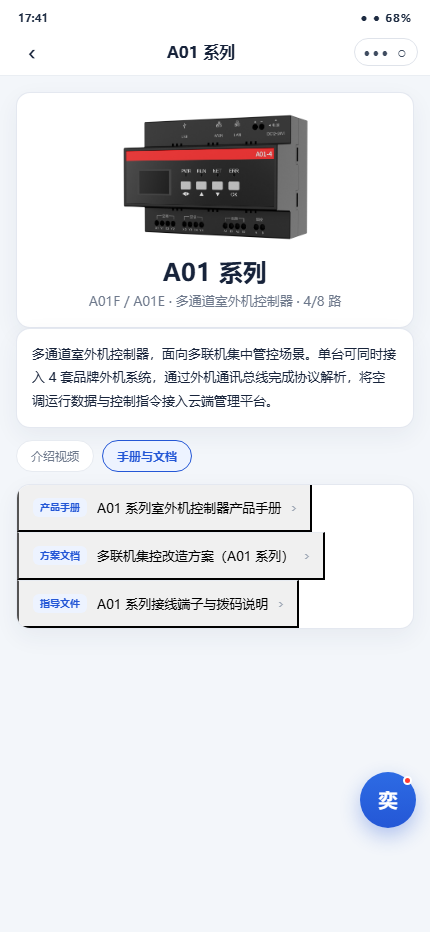
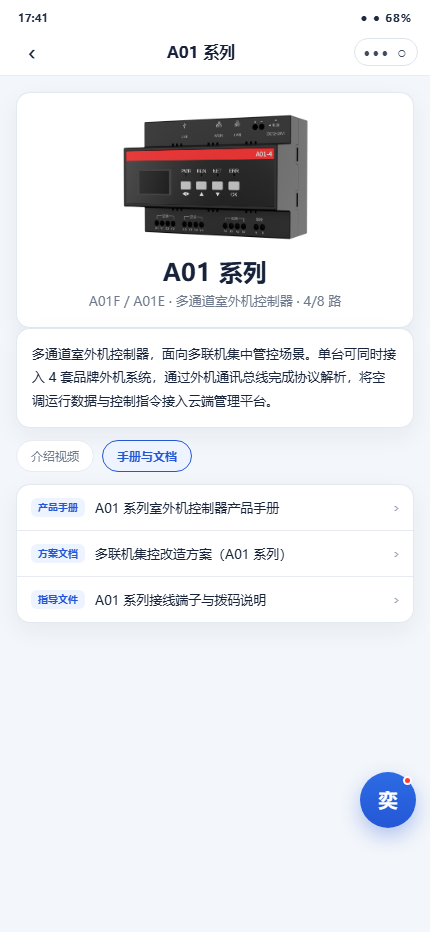
产品手册与文档改为页面化展示：新增manual-data.js（8系列×产品手册/方案文档/指导文件，每篇精简章节内容+参数表）；新增product-manual.html阅读页（类型徽章+章节目录锚点+正文/参数表渲染）；product-intro文档行由toast改跳阅读页；说明书6.2节同步

diff --git a/assets/app/manual-data.js b/assets/app/manual-data.js
@@ -1,0 +1,176 @@
+(function (root, factory) {
+  var data = factory();
+  if (typeof module === 'object' && module.exports) module.exports = data;
+  root.GWDBG_MANUALS = data;
+})(typeof window !== 'undefined' ? window : globalThis, function () {
+  return {
+    a01: [
+      [
+        { title: '产品简介', text: 'A01 系列是面向多联机（氟机）集控改造的多通道室外机控制器，通过 RS485 总线接入空调室外机，A01F 支持 4 路通道、A01E 支持 8 路通道，每通道可接多台内机，实现统一监控与批量控制。' },
+        { title: '技术参数', rows: [['产品型号', 'A01F / A01E'], ['通道数量', '4 路 / 8 路'], ['通讯接口', 'RS485（每通道独立）'], ['供电规格', 'DC 12V'], ['工作温度', '-20℃ ~ 70℃'], ['安装方式', '35mm 标准导轨']] },
+        { title: '接线说明', text: '每通道 A/B 端子按极性接入空调通讯总线，建议使用屏蔽双绞线并远离强电敷设；室外机侧端子位置因品牌而异，接线前务必断电操作。' },
+        { title: '指示灯说明', text: 'POWER 常亮表示供电正常；RUN 闪烁表示运行正常；通道灯常亮表示该通道通讯正常，熄灭请检查接线与品牌配置。' },
+        { title: '配置流程', text: '上电 → 小程序蓝牙连接设备 → 空调搜索识别内机 → 按通道批量配置空调品牌 → 服务器配置并检测通讯 → 平台建项绑定上线。' },
+        { title: '注意事项', text: '同一通道内空调品牌必须一致；修改品牌配置后需重新搜索内机；通讯总线施工请避开雷雨天气。' }
+      ],
+      [
+        { title: '适用场景', text: '适用于商场、办公楼、学校等多联机集中管控项目，单台 A01 可覆盖 4-8 套多联机系统，多台级联可管理大型园区。' },
+        { title: '系统架构', text: '空调室外机 → RS485 总线 → A01 控制器 → 局域网/4G 路由 → 集控计费平台 → 小程序/网页端。' },
+        { title: '实施步骤', text: '现场勘查（品牌、数量、总线位置）→ 控制柜安装与接线 → 通道品牌配置 → 平台建项绑定 → 可视化布局与节能策略下发。' },
+        { title: '验收要点', text: '内机识别率 100%；批量控制响应不超过 3 秒；断电重启后设备自动恢复上线。' }
+      ],
+      [
+        { title: '端子定义', rows: [['VCC / GND', '供电输入 DC 12V'], ['A1/B1 ~ A8/B8', '通道 1-8 通讯端子'], ['PE', '屏蔽层接地端子']] },
+        { title: '拨码开关说明', text: 'SW1 第 5 位 ON 为终端电阻投入（仅总线末端设备使用）；第 8 位 ON 上电保持 5 秒恢复出厂设置；其余位预留。' },
+        { title: '常见接线错误', text: 'A/B 极性接反：通道灯不亮，对调即可；通讯线与强电同管敷设：干扰导致内机频繁掉线；屏蔽层未单端接地：通讯距离明显缩短。' }
+      ]
+    ],
+    a02: [
+      [
+        { title: '产品简介', text: 'A02 系列是第二代室外机控制器，在 A01 基础上升级分通道品牌配置与设备诊断能力，A02FG 支持 4 路、A02EG 支持 8 路，适合多品牌混装的大体量项目。' },
+        { title: '技术参数', rows: [['产品型号', 'A02FG / A02EG'], ['通道数量', '4 路 / 8 路'], ['通讯接口', 'RS485（每通道独立）'], ['供电规格', 'DC 12V'], ['工作温度', '-20℃ ~ 70℃'], ['安装方式', '35mm 标准导轨']] },
+        { title: '接线说明', text: '与 A01 系列一致，每通道独立 A/B 端子接入对应空调总线；多品牌混装项目请按品牌划分通道，避免同通道混接。' },
+        { title: '指示灯说明', text: 'POWER 常亮供电正常；RUN 闪烁运行正常；通道灯常亮通讯正常，慢闪表示该通道正在执行诊断。' },
+        { title: '配置流程', text: '上电 → 蓝牙连接 → 空调搜索 → 分通道品牌配置（各通道可不同品牌）→ RS485 对接与设备诊断 → 服务器配置上线。' },
+        { title: '注意事项', text: '分通道品牌配置生效后需逐通道复核内机识别结果；诊断功能请在内机待机状态下执行。' }
+      ],
+      [
+        { title: '适用场景', text: '适用于园区、医院、综合体等大体量多联机项目，多品牌混装、分区管理，多台 A02 级联可覆盖数百台内机。' },
+        { title: '系统架构', text: '各楼栋空调总线 → A02 控制器（按品牌分通道）→ 汇聚交换机/4G → 集控计费平台 → 分区权限下发。' },
+        { title: '实施步骤', text: '分区规划与通道分配 → 安装接线 → 分通道品牌配置与逐区调试 → 平台分组建项 → 分账号权限验收。' },
+        { title: '验收要点', text: '各分区独立可控互不干扰；混装品牌均正常识别；诊断功能可定位故障通道。' }
+      ],
+      [
+        { title: '通道分配原则', text: '同品牌、同区域的内机尽量归入同一通道；预留 1 个空通道便于后期扩容与故障切换。' },
+        { title: '分通道品牌配置', text: '在「更多配置 → 空调品牌批量配置」中按通道逐一设置品牌与主从属性，配置后该通道自动重新搜索。' },
+        { title: '通道诊断', text: '诊断项含主控通讯、空调总线、网络通讯、存储器；全部正常后方可交付，异常项按提示逐项排查。' }
+      ]
+    ],
+    a03fg: [
+      [
+        { title: '产品简介', text: 'A03FG 是内置 4G 模组的 4 路室外机控制器，无需现场宽带即可通过 4G 直连云端 MQTT，适合无机房网络条件的改造项目。' },
+        { title: '技术参数', rows: [['产品型号', 'A03FG'], ['通道数量', '4 路'], ['通讯接口', 'RS485 + 4G LTE Cat.1'], ['SIM 卡', 'Nano-SIM（已内置贴片卡可选）'], ['供电规格', 'DC 12V'], ['安装方式', '35mm 标准导轨']] },
+        { title: '接线说明', text: '通道接线同 A01 系列；4G 天线需引出至控制柜外并固定，金属柜体会明显衰减信号。' },
+        { title: '指示灯说明', text: 'NET 灯慢闪表示正在搜网，常亮表示已注册网络；其余指示灯含义同 A01 系列。' },
+        { title: '配置流程', text: '确认 SIM 卡已激活 → 上电 → 蓝牙连接 → 空调搜索与品牌配置 → 云端 MQTT 参数核对 → 平台绑定上线。' },
+        { title: '注意事项', text: '流量卡欠费会导致设备离线，请开通自动续费；地下车库等弱信号场景建议外接高增益天线。' }
+      ],
+      [
+        { title: '适用场景', text: '适用于无机房宽带的泵站、基站、连锁门店等分散站点，免拉网线快速纳入集控。' },
+        { title: '系统架构', text: '空调室外机 → RS485 → A03FG 控制器 → 4G 网络 → 云端 MQTT  Broker → 集控计费平台。' },
+        { title: '实施步骤', text: '流量卡开通与 IMEI 登记 → 设备安装接线 → 上电确认 NET 常亮 → 平台绑定 → 远程下发策略验证。' },
+        { title: '验收要点', text: '弱信号环境断网后自动重连；平台可实时查看设备在线状态；单月流量消耗在套餐范围内。' }
+      ],
+      [
+        { title: '上线检查清单', rows: [['SIM 卡', '已激活且套餐有余量'], ['IMEI', '已录入平台设备档案'], ['平台项目', '已创建并分配子账号'], ['信号强度', '现场实测 ≥ -85 dBm']] },
+        { title: '绑定步骤', text: '平台「项目及设备管理 → 控制器」新增设备，输入 IMEI 与项目归属，保存后设备在 1 分钟内自动上线。' },
+        { title: '离线排查', text: '先查流量卡状态，再查天线连接与现场信号；NET 灯长时间慢闪请更换安装位置或外接天线。' }
+      ]
+    ],
+    f16g: [
+      [
+        { title: '产品简介', text: 'F16G 是风机盘管室内机控制器，支持风机三速与冷/热水阀控制，兼容 2 管制、4 管制及多种线阀类型，可纳入平台统一温控管理。' },
+        { title: '技术参数', rows: [['产品型号', 'F16G'], ['控制输出', '风机三速 + 阀门两路'], ['温度传感器', 'NTC 10K'], ['管制类型', '2 管制 / 4 管制'], ['供电规格', 'AC 220V'], ['安装方式', '86 型暗盒']] },
+        { title: '接线说明', text: 'L/N 接市电，H/M/L 接风机三速线，V1/V2 接阀门，S1/S2 接温度传感器；强电施工必须由持证电工完成。' },
+        { title: '指示灯与按键', text: '面板按键可现场开关机与调温；配网指示灯快闪表示待配对，常亮表示已连接。' },
+        { title: '配置流程', text: '上电 → 蓝牙连接 → 设置管制线阀类型 → 温度传感器补偿 → 平台绑定并纳入温控策略。' },
+        { title: '注意事项', text: '管制线阀类型必须与实际系统一致，否则冬夏季可能出现反向动作；温度补偿仅在面板显示与实测偏差较大时设置。' }
+      ],
+      [
+        { title: '适用场景', text: '适用于酒店客房、办公楼风机盘管的集中温控改造，解决忘关空调、温度过低等能耗浪费问题。' },
+        { title: '系统架构', text: '各房间 F16G 控制器 → 楼层网关 → 集控计费平台 → 统一温控策略与日程下发。' },
+        { title: '实施步骤', text: '房型与管制类型普查 → 逐房间安装接线 → 批量配对上线 → 分时段温控策略配置 → 抽检验收。' },
+        { title: '验收要点', text: '面板与平台状态一致；策略下发后温度按预期变化；断电恢复后参数不丢失。' }
+      ],
+      [
+        { title: '端子定义', rows: [['L / N', '市电输入 AC 220V'], ['H / M / L', '风机高/中/低速'], ['V1 / V2', '冷/热水阀控制'], ['S1 / S2', '温度传感器']] },
+        { title: '管制线阀选择', text: '2 管制系统接 V1；4 管制系统 V1 冷阀、V2 热阀；线阀类型在「管制线阀类型」设置项中选择，常见为 2 管制 2 线阀。' },
+        { title: '常见接线错误', text: '风机三速接反：风速档位与显示不符，按实测对调；阀门接常开/常闭混淆：制冷时吹热风，调整线阀类型。' }
+      ]
+    ],
+    b25lg: [
+      [
+        { title: '产品简介', text: 'B25LG 是单路室内机控制器，直接接入品牌内机通讯协议实现单台内机的智能化改造，适用于不便布线的存量项目按台改造。' },
+        { title: '技术参数', rows: [['产品型号', 'B25LG'], ['通道数量', '1 路'], ['通讯接口', '品牌内机协议直连'], ['供电规格', 'DC 5V（线控器取电）'], ['安装方式', '线控盒内嵌装']] },
+        { title: '接线说明', text: '从空调线控器端子取电与通讯，按品牌接线图接入对应端子；不同品牌端子定义差异较大，请先核对「空调接线」图文。' },
+        { title: '指示灯说明', text: '配对指示灯快闪表示待配对，常亮表示已连接；通讯灯随数据收发闪烁。' },
+        { title: '配置流程', text: '上电 → 蓝牙配对 → 选择空调品牌协议直连 → 按需设置空调高级参数 → 平台绑定。' },
+        { title: '注意事项', text: '取电端子电压因品牌而异（5V/12V），接错可能损坏设备；改造后原线控器功能不受影响。' }
+      ],
+      [
+        { title: '适用场景', text: '适用于已装修、不便重新布线的项目（家庭、门店、办公室），按内机逐台改造，即装即用。' },
+        { title: '系统架构', text: '空调内机 → B25LG 控制器 → 蓝牙/网关 → 集控计费平台 → 手机端单台或分组控制。' },
+        { title: '实施步骤', text: '逐台核对内机品牌型号 → 线控盒内安装 → 配对与协议配置 → 分组命名 → 平台侧抽检。' },
+        { title: '验收要点', text: '每台内机均可远程开关与调温；原线控器与平台状态一致；分组控制无串控。' }
+      ],
+      [
+        { title: '配对步骤', text: '设备上电进入配对状态 → 小程序搜索并连接 → 选择品牌协议 → 返回状态确认通讯正常。' },
+        { title: '高级参数', rows: [['防冷风', '制热开机时延迟送风'], ['电辅热', '低温环境自动启用电辅热'], ['温控补偿', '修正显示温度与实测偏差']] },
+        { title: '常见问题', text: '配对后无状态回传：多为通讯端子接错或品牌协议选错，重新核对接线与协议；控制无响应：检查内机是否处于锁定状态。' }
+      ]
+    ],
+    fd01g: [
+      [
+        { title: '产品简介', text: 'FD01G 是分体空调红外控制器，通过红外码库模拟遥控器控制分体空调，内置电流检测判定空调真实运行状态，支持电量采集与远程管理。' },
+        { title: '技术参数', rows: [['产品型号', 'FD01G'], ['控制方式', '红外发射（多品牌码库）'], ['电流检测', '内置 CT，0-5A'], ['通讯方式', '蓝牙配网 + 云端上报'], ['供电规格', 'DC 5V'], ['安装方式', '壁挂 / 桌面放置']] },
+        { title: '接线说明', text: '电流互感器穿入空调火线（L 线）1 匝并卡紧；红外发射窗正对空调接收窗，距离建议 5 米内无遮挡。' },
+        { title: '指示灯说明', text: '配网灯快闪表示待配网，常亮表示已连接；发射红外指令时信号灯闪烁一次。' },
+        { title: '配置流程', text: '码库匹配（逐套测试至空调响应）→ 服务器设定 → 电流检测校准 → 电量采集设置 → 空调控制验证。' },
+        { title: '注意事项', text: '码库必须匹配成功后再交付，否则状态判定与控制会不一致；「寻找设备」功能可让设备蜂鸣 3 轮，便于多设备现场定位。' }
+      ],
+      [
+        { title: '适用场景', text: '适用于分体挂机/柜机的集中管控，如商铺、宿舍、教室、办公隔间，解决分体机无法接入总线的管控盲区。' },
+        { title: '系统架构', text: '分体空调 ← 红外 ← FD01G 控制器 → 云端 → 集控计费平台 → 统一开关、限温与日程策略。' },
+        { title: '实施步骤', text: '空调品牌型号普查 → 设备安装与 CT 接线 → 逐台码库匹配 → 电流阈值校准 → 平台分组验收。' },
+        { title: '验收要点', text: '码库匹配成功率 100%；运行/待机状态判定准确；批量开关指令响应不超过 5 秒。' }
+      ],
+      [
+        { title: 'CT 穿线要求', rows: [['穿线位置', '空调火线（L 线）'], ['穿线匝数', '1 匝'], ['方向', '任意方向均可'], ['紧固', '互感器卡扣必须扣合']] },
+        { title: '阈值设定建议', text: '先执行一键电流检测获取关机与运行电流，阈值取两者中间值；典型挂机建议 300-500 mA。' },
+        { title: '常见接线错误', text: '零火线同时穿过互感器：电流相互抵消始终为零；互感器未卡紧：振动导致读数漂移；穿在插座总线上：多台电器干扰判定。' }
+      ]
+    ],
+    s74g: [
+      [
+        { title: '产品简介', text: 'S74G 是单路室外网关，为单套多联机的小体量项目提供轻量接入方案，一根总线即可将整套系统纳入集控平台。' },
+        { title: '技术参数', rows: [['产品型号', 'S74G'], ['通道数量', '1 路'], ['通讯接口', 'RS485'], ['供电规格', 'DC 12V'], ['工作温度', '-20℃ ~ 70℃'], ['安装方式', '35mm 标准导轨']] },
+        { title: '接线说明', text: 'A/B 端子接入室外机通讯总线，总线末端按需投入终端电阻；供电可与空调室内机共用 DC 12V 电源。' },
+        { title: '指示灯说明', text: 'POWER 常亮供电正常；RUN 闪烁运行正常；LINK 常亮表示已连接服务器。' },
+        { title: '配置流程', text: '上电 → 蓝牙连接 → 空调搜索 → 品牌配置 → 网络与服务器配置 → 平台绑定。' },
+        { title: '注意事项', text: '单路设计不支持扩展通道；如后期增加多联机系统，请更换 A01/A02 系列多通道控制器。' }
+      ],
+      [
+        { title: '适用场景', text: '适用于只有一套多联机的商铺、别墅、小型办公室，以最低成本实现远程监控与节能管理。' },
+        { title: '系统架构', text: '室外机总线 → S74G 网关 → 现场路由器/4G → 集控计费平台 → 手机端管理。' },
+        { title: '实施步骤', text: '总线位置确认 → 导轨安装接线 → 品牌配置与搜索 → 服务器对接自检 → 平台交付演示。' },
+        { title: '验收要点', text: '内机全部识别；平台开关机与调温生效；通讯自检全部通过。' }
+      ],
+      [
+        { title: '安装要点', text: '安装于室内控制箱内，避免室外露天环境；与强电断路器保持 10cm 以上间距。' },
+        { title: '网络配置', rows: [['地址获取', 'DHCP 自动获取'], ['服务器类型', '云端 MQTT'], ['默认端口', '1883'], ['检测方式', '保存后自动通讯自检']] },
+        { title: '常见配置错误', text: '端口被现场防火墙拦截：改为允许的端口或开通白名单；DHCP 获取失败：检查路由器 DHCP 服务或改静态 IP。' }
+      ]
+    ],
+    e50: [
+      [
+        { title: '产品简介', text: 'E50 是空调诊断设备，现场接入空调总线读取系统运行参数，结合 AI 智能诊断输出故障报告与处理建议，支持蓝牙与 4G 双通讯方式。' },
+        { title: '技术参数', rows: [['产品型号', 'E50'], ['通讯方式', '蓝牙 / 4G'], ['诊断接口', '空调通讯总线'], ['供电规格', '锂电池，Type-C 充电'], ['续航时间', '≥ 8 小时连续作业']] },
+        { title: '接口与按键', text: '顶部为诊断接口与充电口；侧面电源键长按开关机，短按唤醒；屏幕实时显示诊断进度与参数。' },
+        { title: '指示灯说明', text: '蓝牙灯常亮表示已连接小程序；4G 灯常亮表示远程在线；红灯闪烁表示电量不足。' },
+        { title: '作业流程', text: '连接设备 → 选择空调品牌 → 搜索空调系统 → 查看参数与 AI 诊断报告 → 生成检修结论。' },
+        { title: '注意事项', text: '诊断前确认空调系统已上电并处于待机或运行状态；「检修抓码」用于厂家远程分析，按指引填写抓码原因。' }
+      ],
+      [
+        { title: '适用场景', text: '适用于售后巡检、故障定位、维保报告输出等场景，帮助工程师快速判断空调系统健康度。' },
+        { title: '服务流程', text: '现场接入 → 系统识别 → 参数采集 → AI 诊断 → 报告分享 → 处理建议跟踪闭环。' },
+        { title: '报告解读', text: '报告含系统概览、异常参数标注、可能原因排序与建议处理步骤；EL 类故障码可直接关联排查方案。' },
+        { title: '方案价值', text: '降低对资深工程师的依赖，现场一次到访即可完成定位，减少返修与误判成本。' }
+      ],
+      [
+        { title: '作业前准备', text: '确认设备电量 ≥ 50%；确认空调品牌与总线位置；高空作业佩戴安全防护。' },
+        { title: '检修抓码', text: '遇到疑难故障时发起抓码：选择抓码原因并补充说明、上传现场照片，厂家技术支持远程获取数据包分析。' },
+        { title: '安全注意', rows: [['电气安全', '接线前断电，验电后操作'], ['高空作业', '外机平台作业系安全带'], ['设备防护', '雨天室外作业注意接口防水']] }
+      ]
+    ]
+  };
+});

diff --git a/pages/product-manual.html b/pages/product-manual.html
@@ -1,0 +1,70 @@
+<!doctype html>
+<html lang="zh-CN">
+<head><meta charset="utf-8"><meta name="viewport" content="width=device-width,initial-scale=1,viewport-fit=cover"><title>产品手册</title><link rel="stylesheet" href="../assets/app/app.css">
+<style>
+  .manual-hero { padding: 16px; display: grid; gap: 7px; justify-items: start; }
+  .manual-hero .doc-badge { padding: 3px 8px; border-radius: 6px; background: var(--blue-soft); color: var(--blue); font-size: 10px; font-weight: 700; }
+  .manual-hero h1 { margin: 0; font-size: 17px; line-height: 1.5; }
+  .manual-hero p { margin: 0; color: var(--muted); font-size: 11px; }
+  .manual-toc { display: flex; gap: 8px; overflow-x: auto; margin: 12px 0 4px; scrollbar-width: none; }
+  .manual-toc::-webkit-scrollbar { display: none; }
+  .manual-toc button { flex: 0 0 auto; min-height: 30px; padding: 0 12px; border: 1px solid var(--line); border-radius: 15px; background: #fff; color: var(--muted); font-size: 11px; cursor: pointer; }
+  .manual-sec { padding: 14px 15px; margin-bottom: 10px; }
+  .manual-sec h2 { margin: 0 0 8px; font-size: 14px; }
+  .manual-sec p { margin: 0; color: var(--ink); font-size: 12px; line-height: 1.8; }
+</style>
+</head>
+<body>
+  <main class="app-shell">
+    <div class="statusbar"><span>17:41</span><span class="status-icons">● ● 68%</span></div>
+    <header class="topbar"><a class="back" id="nav-back" href="tool-guide.html">‹</a><div class="topbar-title" id="manual-title">产品手册</div><div class="capsule">··· ○</div></header>
+    <div class="page no-tab" id="manual-page">
+      <section class="card manual-hero" id="manual-hero"></section>
+      <div class="manual-toc" id="manual-toc"></div>
+      <div id="manual-body"></div>
+    </div>
+  </main>
+  <script src="../assets/app/product-data.js"></script>
+  <script src="../assets/app/manual-data.js"></script>
+  <script>
+    (function () {
+      var params = new URLSearchParams(location.search);
+      var key = params.get('series');
+      var docIndex = parseInt(params.get('doc') || '0', 10);
+      var series = GWDBG_DATA.guideSeries.find(function (s) { return s.key === key; });
+      var docPages = series && GWDBG_MANUALS[series.key];
+      if (!series || !docPages || !series.docs[docIndex] || !docPages[docIndex]) {
+        location.replace('product-intro.html?series=' + (series ? series.key : 'a01'));
+        return;
+      }
+      var doc = series.docs[docIndex];
+      var sections = docPages[docIndex];
+      document.title = doc[1];
+      document.getElementById('manual-title').textContent = doc[0];
+      document.getElementById('nav-back').href = 'product-intro.html?series=' + series.key;
+      document.getElementById('manual-hero').innerHTML =
+        '<span class="doc-badge">' + doc[0] + '</span><h1>' + doc[1] + '</h1><p>' + series.title + ' · ' + series.desc + '</p>';
+      document.getElementById('manual-toc').innerHTML = sections.map(function (sec, index) {
+        return '<button type="button" data-sec="' + index + '">' + sec.title + '</button>';
+      }).join('');
+      document.getElementById('manual-body').innerHTML = sections.map(function (sec, index) {
+        if (sec.rows) {
+          return '<section class="card manual-sec" id="sec-' + index + '"><h2>' + sec.title + '</h2><div class="parameter-card">' +
+            sec.rows.map(function (row) { return '<div class="parameter-row"><span>' + row[0] + '</span><strong>' + row[1] + '</strong></div>'; }).join('') +
+            '</div></section>';
+        }
+        return '<section class="card manual-sec" id="sec-' + index + '"><h2>' + sec.title + '</h2><p>' + sec.text + '</p></section>';
+      }).join('');
+      document.getElementById('manual-toc').addEventListener('click', function (event) {
+        var btn = event.target.closest('[data-sec]');
+        if (!btn) return;
+        var target = document.getElementById('sec-' + btn.dataset.sec);
+        if (target) target.scrollIntoView({ behavior: 'smooth', block: 'start' });
+      });
+      document.getElementById('nav-back').addEventListener('click', function (event) {
+        if (window.history.length > 1) { event.preventDefault(); window.history.back(); }
+      });
+    })();
+  </script>
+  <script src="../assets/app/ai-assistant.js"></script>
+</body></html>

diff --git a/tests/redesign-requirements.test.js b/tests/redesign-requirements.test.js
@@ -288,6 +288,7 @@ const publicPages = [
   'pages/device-e50-devices.html', 'pages/device-e50-service.html', 'pages/device-e50-contact.html', 'pages/device-e50-guide.html',
   'pages/device-fd01g-detail.html', 'pages/device-fd01g-view.html',
   'pages/product-catalog.html', 'pages/tool-wiring.html', 'pages/tool-guide.html',
+  'pages/product-manual.html',
   'pages/tool-videos.html', 'pages/tool-errcode.html', 'pages/tool-fluoro-input.html', 'pages/tool-fluoro-result.html',
   'pages/tool-fluoro-submit.html', 'pages/feedback.html',
   'pages/tool-remote.html', 'pages/tool-remote-assisted.html', 'pages/tool-remote-assist.html',
@@ -349,8 +350,20 @@ for (const text of ['常见问题答疑', 'faqList', '去留言反馈', 'feedbac
   assert(faqPage.includes(text), `faq page must include ${text}`);
 }
 const productIntro = read('pages/product-intro.html');
-for (const text of ['介绍视频', '手册与文档', 'guideSeries']) {
+for (const text of ['介绍视频', '手册与文档', 'guideSeries', 'product-manual.html?series=']) {
   assert(productIntro.includes(text), `series hub must include ${text}`);
+}
+const manuals = require(path.join(root, 'assets/app/manual-data.js'));
+assert.deepEqual(Object.keys(manuals).sort(), data.guideSeries.map((s) => s.key).sort(), 'manuals must cover every guide series');
+for (const series of data.guideSeries) {
+  assert(manuals[series.key].length === series.docs.length, `${series.key} manuals must align with the doc list`);
+  manuals[series.key].forEach((sections, index) => {
+    assert(sections.length > 0 && sections.every((sec) => sec.title && (sec.text || sec.rows)), `${series.key} doc ${index} must provide titled sections`);
+  });
+}
+const productManual = read('pages/product-manual.html');
+for (const text of ['manual-toc', 'manual-sec', 'GWDBG_MANUALS', 'manual-data.js', 'product-intro.html?series=']) {
+  assert(productManual.includes(text), `manual reader must include ${text}`);
 }
 
 const aiAssistant = read('assets/app/ai-assistant.js');
@@ -363,7 +376,7 @@ for (const text of ['奕', 'pointermove', 'docked', 'placeDefault']) {
 assert(!aiAssistant.includes("innerHTML = 'AI"), 'assistant ball must not keep the old AI glyph');
 for (const page of ['tab-tools', 'tool-fluoro-input', 'tool-fluoro-result', 'tool-fluoro-submit', 'tool-wiring', 'tool-videos', 'tool-errcode', 'feedback',
   'tool-remote', 'tool-remote-assisted', 'tool-remote-assist', 'tool-guide', 'tool-faq', 'platform-videos',
-  'tab-device-bt', 'tab-mine', 'mine-devices', 'product-intro',
+  'tab-device-bt', 'tab-mine', 'mine-devices', 'product-intro', 'product-manual',
   'device-quick', 'device-detail', 'device-more', 'device-setting', 'device-a01-ac', 'device-fd01g', 'device-fd01g-more', 'device-fd01g-detail', 'device-fd01g-view',
   'device-e50', 'device-e50-detail', 'device-e50-ai', 'device-e50-ac', 'device-e50-report', 'device-e50-upgrade',
   'device-e50-devices', 'device-e50-service', 'device-e50-contact', 'device-e50-guide']) {

diff --git a/pages/product-intro.html b/pages/product-intro.html
@@ -61,8 +61,8 @@
         }).join('') + '</div>';
         return;
       }
-      resList.innerHTML = '<section class="card doc-list">' + series.docs.map(function (doc) {
-        return '<button class="doc-row" data-act="doc" type="button"><span class="doc-badge">' + doc[0] + '</span><span class="doc-title">' + doc[1] + '</span><span class="doc-arrow">›</span></button>';
+      resList.innerHTML = '<section class="card doc-list">' + series.docs.map(function (doc, index) {
+        return '<a class="doc-row" href="product-manual.html?series=' + series.key + '&doc=' + index + '"><span class="doc-badge">' + doc[0] + '</span><span class="doc-title">' + doc[1] + '</span><span class="doc-arrow">›</span></a>';
       }).join('') + '</section>';
     }
     renderList();
@@ -75,7 +75,7 @@
     });
     resList.addEventListener('click', function (event) {
       var item = event.target.closest('[data-act]');
-      if (item) showToast(item.dataset.act === 'video' ? '视频播放' : '文档打开');
+      if (item) showToast('视频播放');
     });
     document.getElementById('nav-back').addEventListener('click', function (event) {
       if (window.history.length > 1) { event.preventDefault(); window.history.back(); }

diff --git a/tests/browser-smoke.js b/tests/browser-smoke.js
@@ -372,6 +372,15 @@ async function assertNoHorizontalOverflow(page, route) {
     await open(page, baseUrl, 'pages/tab-device-bt.html');
     assert.equal(await page.locator('.product-card').count(), 10, 'device tab must show the search list after disconnect');
 
+    await open(page, baseUrl, 'pages/product-intro.html?series=a01');
+    await page.locator('[data-tab="docs"]').click();
+    await page.locator('.doc-row').first().click();
+    await page.waitForLoadState('networkidle');
+    assert.match(page.url(), /product-manual\.html\?series=a01&doc=0/, 'doc rows must open the in-app manual reader');
+    assert.ok((await page.locator('.manual-sec').count()) >= 3, 'manual reader must render the manual sections');
+    assert.ok((await page.locator('.manual-toc button').count()) >= 3, 'manual reader must render the section toc');
+    assert.match(await page.locator('.manual-hero h1').textContent(), /产品手册/);
+
     await page.setViewportSize({ width: 320, height: 700 });
     await open(page, baseUrl, 'pages/tab-device-bt.html');
     await assertNoHorizontalOverflow(page, '320px Bluetooth devices');

diff --git a/docs/飞奕网关调试小程序功能说明书.md b/docs/飞奕网关调试小程序功能说明书.md
@@ -205,7 +205,7 @@ flowchart TD
 
 ### 6.2 产品指引汇聚页
 
-- 每个产品系列一个汇聚页，包含：产品形象与简介、**介绍视频**、**手册与文档**（产品手册 / 方案文档 / 指导文件）
+- 每个产品系列一个汇聚页，包含：产品形象与简介、**介绍视频**、**手册与文档**（产品手册 / 方案文档 / 指导文件）；文档点击进入**阅读页**（页面化展示章节目录、正文与参数表，非文件附件形式）
 - 系列合并规则：A01F/A01E → A01 系列，A02FG/A02EG → A02 系列（仅通道数差异，方案一致），其余型号独立维护
 - 入口：设备页底部产品方案推广卡、工具页「操作指引」、快速配置页顶部「操作指引」按钮（自动对应当前产品系列）；原「产品方案」列表页重定向至操作指引总页
 
